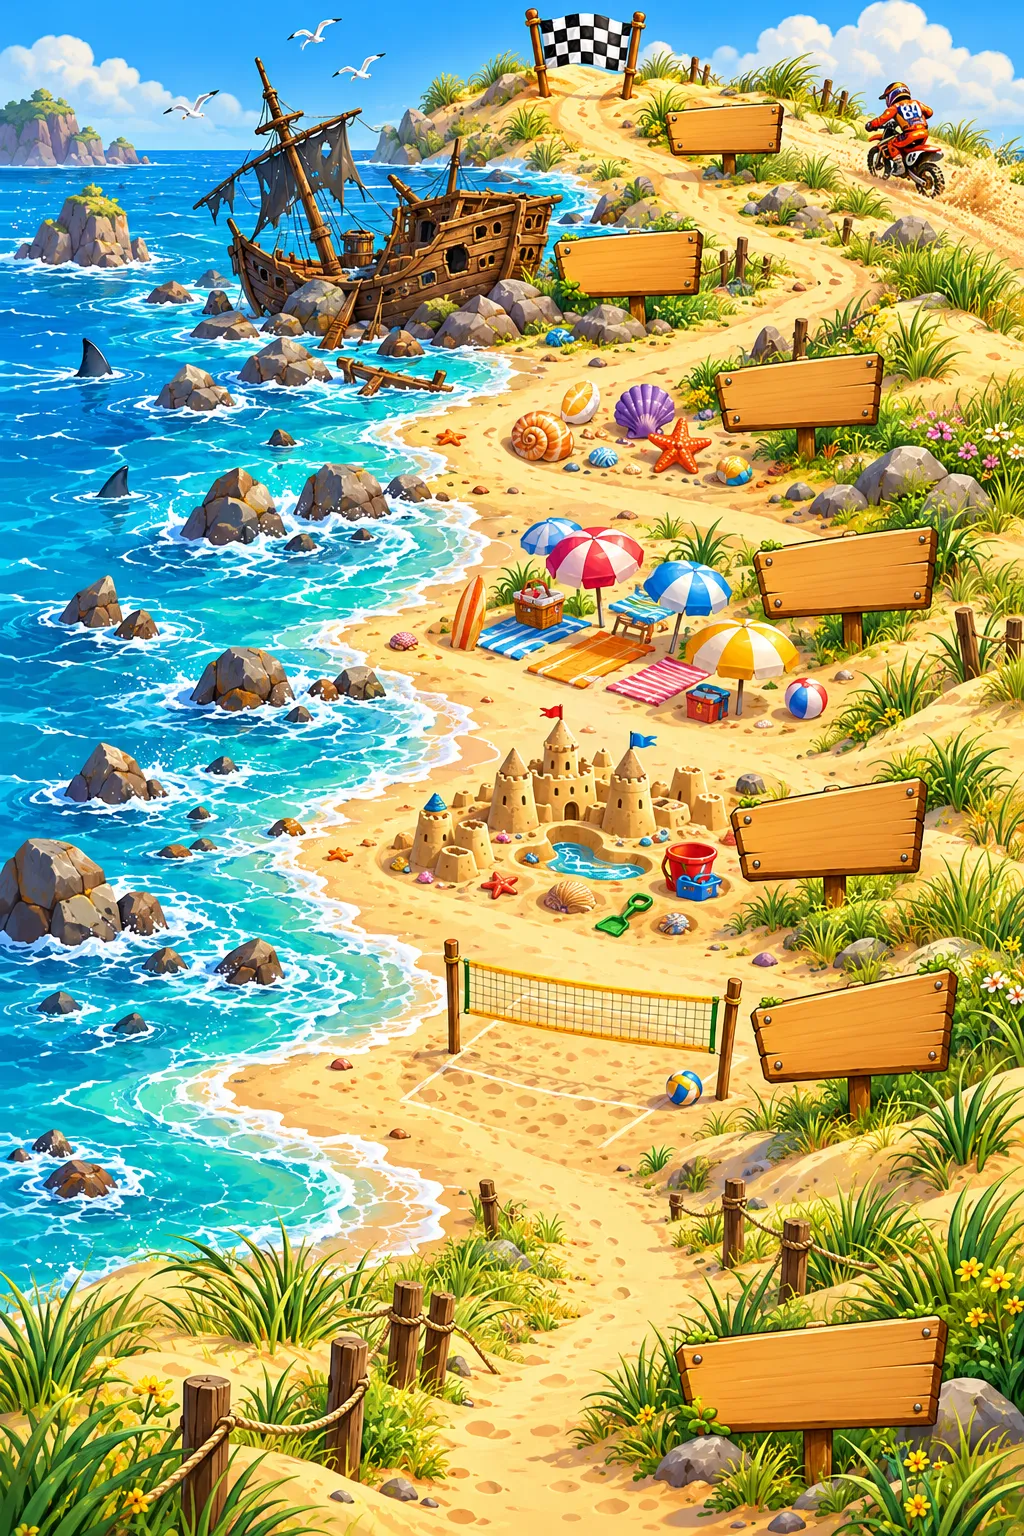
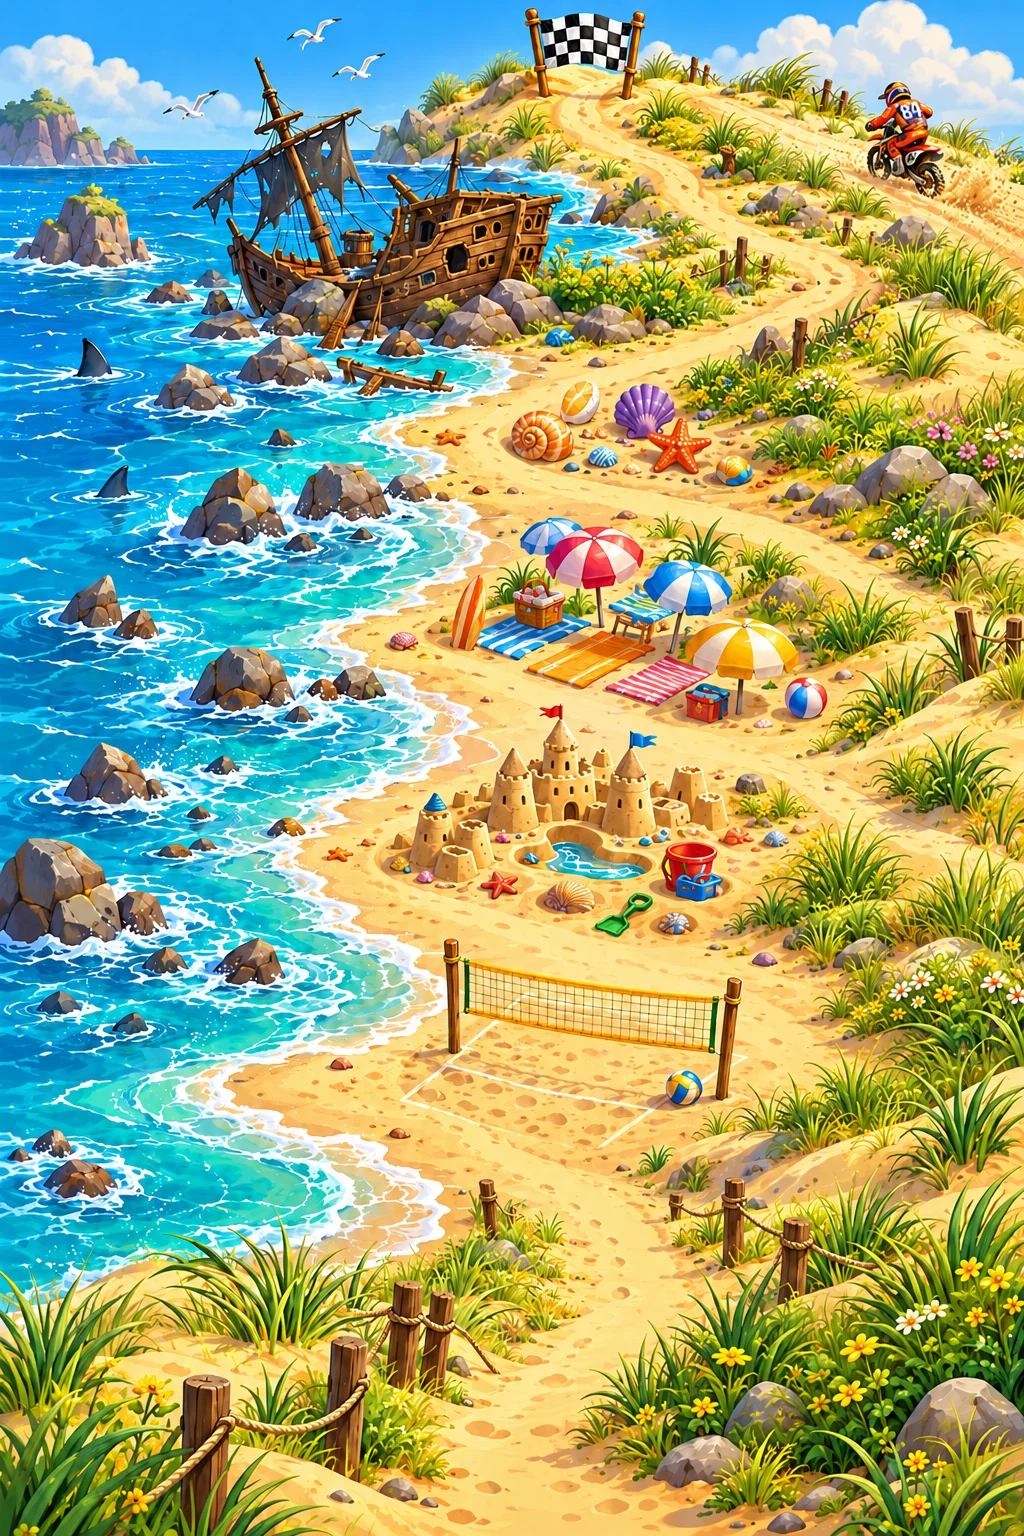
Kaarten zonder houten bordjes; bijnamen van spelers op de racekaart
- Nieuwe kaarten van de eigenaar zonder getekende bordjes (Bosrace,
  Kasteelrace, Strandrace met en zonder #84); namen van de delen als
  losse labels naast het pad
- Grote Bosrace: pad opnieuw nagetekend op de nieuwe kaart
- Finishlabel onder de vlag in plaats van eroverheen
- Gedeelde race: op de kaart staat onder elke racer van een echte speler
  de bijnaam (eigen racer: 'jij'), met een blauwe ring

Claude-Session: https://claude.ai/code/session_016eqzpZeMpJzh4T7Z6YJNGC

diff --git a/src/content/courses/grote-bosrace.ts b/src/content/courses/grote-bosrace.ts
@@ -10,7 +10,7 @@ const groteBosrace: Course = {
     image: 'courses/grote-bosrace-kaart.webp',
     width: 1024,
     height: 1536,
-    finish: { x: 720, y: 55 },
+    finish: { x: 590, y: 100 },
   },
   background: 'backgrounds/bg-landschap.webp',
   segments: [
@@ -20,8 +20,8 @@ const groteBosrace: Course = {
       withArticle: 'de Zenuwweide',
       share: 0.1,
       terrain: 1.0,
-      sign: { x: 705, y: 1340 },
-      path: [{ x: 500, y: 1440 }, { x: 470, y: 1340 }, { x: 472, y: 1290 }, { x: 520, y: 1225 }],
+      sign: { x: 760, y: 1340 },
+      path: [{ x: 580, y: 1528 }, { x: 520, y: 1400 }, { x: 480, y: 1275 }, { x: 560, y: 1195 }],
     },
     {
       id: 'bos',
@@ -29,8 +29,8 @@ const groteBosrace: Course = {
       withArticle: 'het Fluisterbos',
       share: 0.2,
       terrain: 0.95,
-      sign: { x: 757, y: 1108 },
-      path: [{ x: 520, y: 1225 }, { x: 600, y: 1165 }, { x: 625, y: 1115 }, { x: 570, y: 1065 }, { x: 480, y: 1015 }, { x: 440, y: 966 }],
+      sign: { x: 290, y: 1060 },
+      path: [{ x: 560, y: 1195 }, { x: 627, y: 1115 }, { x: 587, y: 1055 }, { x: 467, y: 995 }, { x: 440, y: 941 }],
     },
     {
       id: 'modderveld',
@@ -38,8 +38,8 @@ const groteBosrace: Course = {
       withArticle: 'het Plakveld',
       share: 0.1,
       terrain: 0.7,
-      sign: { x: 762, y: 858 },
-      path: [{ x: 440, y: 966 }, { x: 560, y: 936 }, { x: 610, y: 886 }, { x: 580, y: 836 }, { x: 470, y: 796 }, { x: 430, y: 756 }],
+      sign: { x: 730, y: 880 },
+      path: [{ x: 440, y: 941 }, { x: 533, y: 901 }, { x: 547, y: 835 }, { x: 490, y: 790 }, { x: 507, y: 747 }],
     },
     {
       id: 'beekje',
@@ -47,8 +47,8 @@ const groteBosrace: Course = {
       withArticle: 'de Natte Voetenbeek',
       share: 0.1,
       terrain: 0.85,
-      sign: { x: 747, y: 580 },
-      path: [{ x: 430, y: 756 }, { x: 470, y: 725 }, { x: 520, y: 690 }, { x: 560, y: 640 }, { x: 610, y: 580 }],
+      sign: { x: 760, y: 700 },
+      path: [{ x: 507, y: 747 }, { x: 520, y: 687 }, { x: 453, y: 627 }],
     },
     {
       id: 'vreemde-open-plek',
@@ -56,8 +56,8 @@ const groteBosrace: Course = {
       withArticle: 'de Paddenstoelenkring',
       share: 0.15,
       terrain: 1.05,
-      sign: { x: 730, y: 352 },
-      path: [{ x: 610, y: 580 }, { x: 680, y: 530 }, { x: 700, y: 470 }, { x: 680, y: 415 }, { x: 640, y: 375 }],
+      sign: { x: 250, y: 520 },
+      path: [{ x: 453, y: 627 }, { x: 440, y: 587 }, { x: 560, y: 547 }, { x: 667, y: 520 }, { x: 693, y: 467 }, { x: 667, y: 427 }],
     },
     {
       id: 'heuvel',
@@ -65,8 +65,8 @@ const groteBosrace: Course = {
       withArticle: 'de Hijgheuvel',
       share: 0.15,
       terrain: 0.75,
-      sign: { x: 682, y: 148 },
-      path: [{ x: 640, y: 375 }, { x: 570, y: 335 }, { x: 580, y: 295 }, { x: 635, y: 255 }],
+      sign: { x: 820, y: 360 },
+      path: [{ x: 667, y: 427 }, { x: 587, y: 393 }, { x: 533, y: 353 }, { x: 560, y: 307 }, { x: 640, y: 267 }],
     },
     {
       id: 'kasteeltuin',
@@ -74,8 +74,8 @@ const groteBosrace: Course = {
       withArticle: 'de Kasteeltuin',
       share: 0.2,
       terrain: 1.0,
-      sign: { x: 480, y: 120 },
-      path: [{ x: 635, y: 255 }, { x: 600, y: 215 }, { x: 520, y: 180 }, { x: 480, y: 145 }],
+      sign: { x: 300, y: 230 },
+      path: [{ x: 640, y: 267 }, { x: 627, y: 220 }, { x: 560, y: 187 }, { x: 507, y: 160 }, { x: 480, y: 133 }],
     },
   ],
 };

diff --git a/src/components/RaceMap.tsx b/src/components/RaceMap.tsx
@@ -10,6 +10,8 @@ export interface MapMarker {
   label: string;
   /** De racer van de speler: groter, met een pulserende ring. */
   isPlayer?: boolean;
+  /** Bijnaam van de speler die deze racer bestuurt (gedeelde race). */
+  owner?: string;
 }
 
 interface Props {
@@ -58,18 +60,24 @@ export function RaceMap({ course, markers, alt, image }: Props) {
           >
             <div className="race-map__ping grr-ping" />
             <img className="race-map__racer" src={img(m.image)} alt="" />
-            <div className="race-map__label">{m.label}</div>
+            <div className="race-map__label">
+              {m.label}
+              {m.owner && <span className="race-map__owner">{nl.race.you}</span>}
+            </div>
           </Link>
         ) : (
           <Link
             key={m.racerId}
             to={`/racer/${m.racerId}`}
-            className="race-map__marker race-map__marker--other"
+            className={`race-map__marker race-map__marker--other${m.owner ? ' race-map__marker--human' : ''}`}
             style={pos(m.point)}
             aria-label={nl.racer.open(m.label)}
           >
             <img className="race-map__racer race-map__racer--other" src={img(m.image)} alt="" />
-            <div className="race-map__tag">{m.label}</div>
+            <div className="race-map__tag">
+              {m.label}
+              {m.owner && <span className="race-map__owner">{m.owner}</span>}
+            </div>
           </Link>
         ),
       )}

diff --git a/src/theme/components.css b/src/theme/components.css
@@ -493,10 +493,10 @@
 }
 
 .race-map__sign {
-  /* Naambordje over het getekende bordje heen, goed leesbaar op de telefoon. */
+  /* Naambordje naast het pad (de kaarten hebben geen getekende bordjes). */
   position: absolute;
   transform: translate(-50%, -50%);
-  max-width: 34%;
+  white-space: nowrap;
   padding: 2px 7px;
   border-radius: 7px;
   background: #fbe9c4;
@@ -637,4 +637,18 @@
 .nav__new {
   background: var(--oranje);
   color: var(--wit);
+}
+
+/* Gedeelde race: onder de racer de bijnaam van de speler. */
+.race-map__owner {
+  display: block;
+  color: var(--blauw);
+  font-weight: 800;
+  text-align: center;
+}
+
+.race-map__marker--human .race-map__racer--other {
+  border-radius: 50%;
+  box-shadow: 0 0 0 2px var(--blauw);
+  background: rgba(255, 255, 255, 0.6);
 }

diff --git a/src/content/courses/strandrace.ts b/src/content/courses/strandrace.ts
@@ -12,7 +12,7 @@ const strandrace: Course = {
     image: 'courses/strandrace-kaart.webp',
     width: 1024,
     height: 1536,
-    finish: { x: 380, y: 40 },
+    finish: { x: 590, y: 95 },
     // Paasei: soms scheurt er een motorcrosser over het duin (#84, The King of Sand).
     easterEgg: { image: 'courses/strandrace-kaart-84.webp', chance: 0.25, journalKey: 'kingOfSand' },
   },

diff --git a/src/content/nl.ts b/src/content/nl.ts
@@ -73,6 +73,7 @@ export const nl = {
   },
   race: {
     openJournal: 'Journaal openen',
+    you: 'jij',
     standings: 'Bekijk de tussenstand',
     finish: 'Finish',
     mapAlt: (course: string, name: string, pos: number) => `Geïllustreerde kaart van ${course} met ${name} op plek ${pos}`,

diff --git a/src/content/courses/kasteelrace.ts b/src/content/courses/kasteelrace.ts
@@ -12,7 +12,7 @@ const kasteelrace: Course = {
     image: 'courses/kasteelrace-kaart.webp',
     width: 1024,
     height: 1536,
-    finish: { x: 300, y: 40 },
+    finish: { x: 545, y: 95 },
   },
   background: 'backgrounds/bg-kasteel.webp',
   extraEvents: ['fountain'],

diff --git a/src/screens/Race.tsx b/src/screens/Race.tsx
@@ -30,6 +30,7 @@ export function Race() {
       image: racer.image,
       label: `${racer.name} · #${s.position}`,
       isPlayer: s.racerId === race.playerId,
+      owner: race.owners?.[s.racerId],
     };
   });
 
